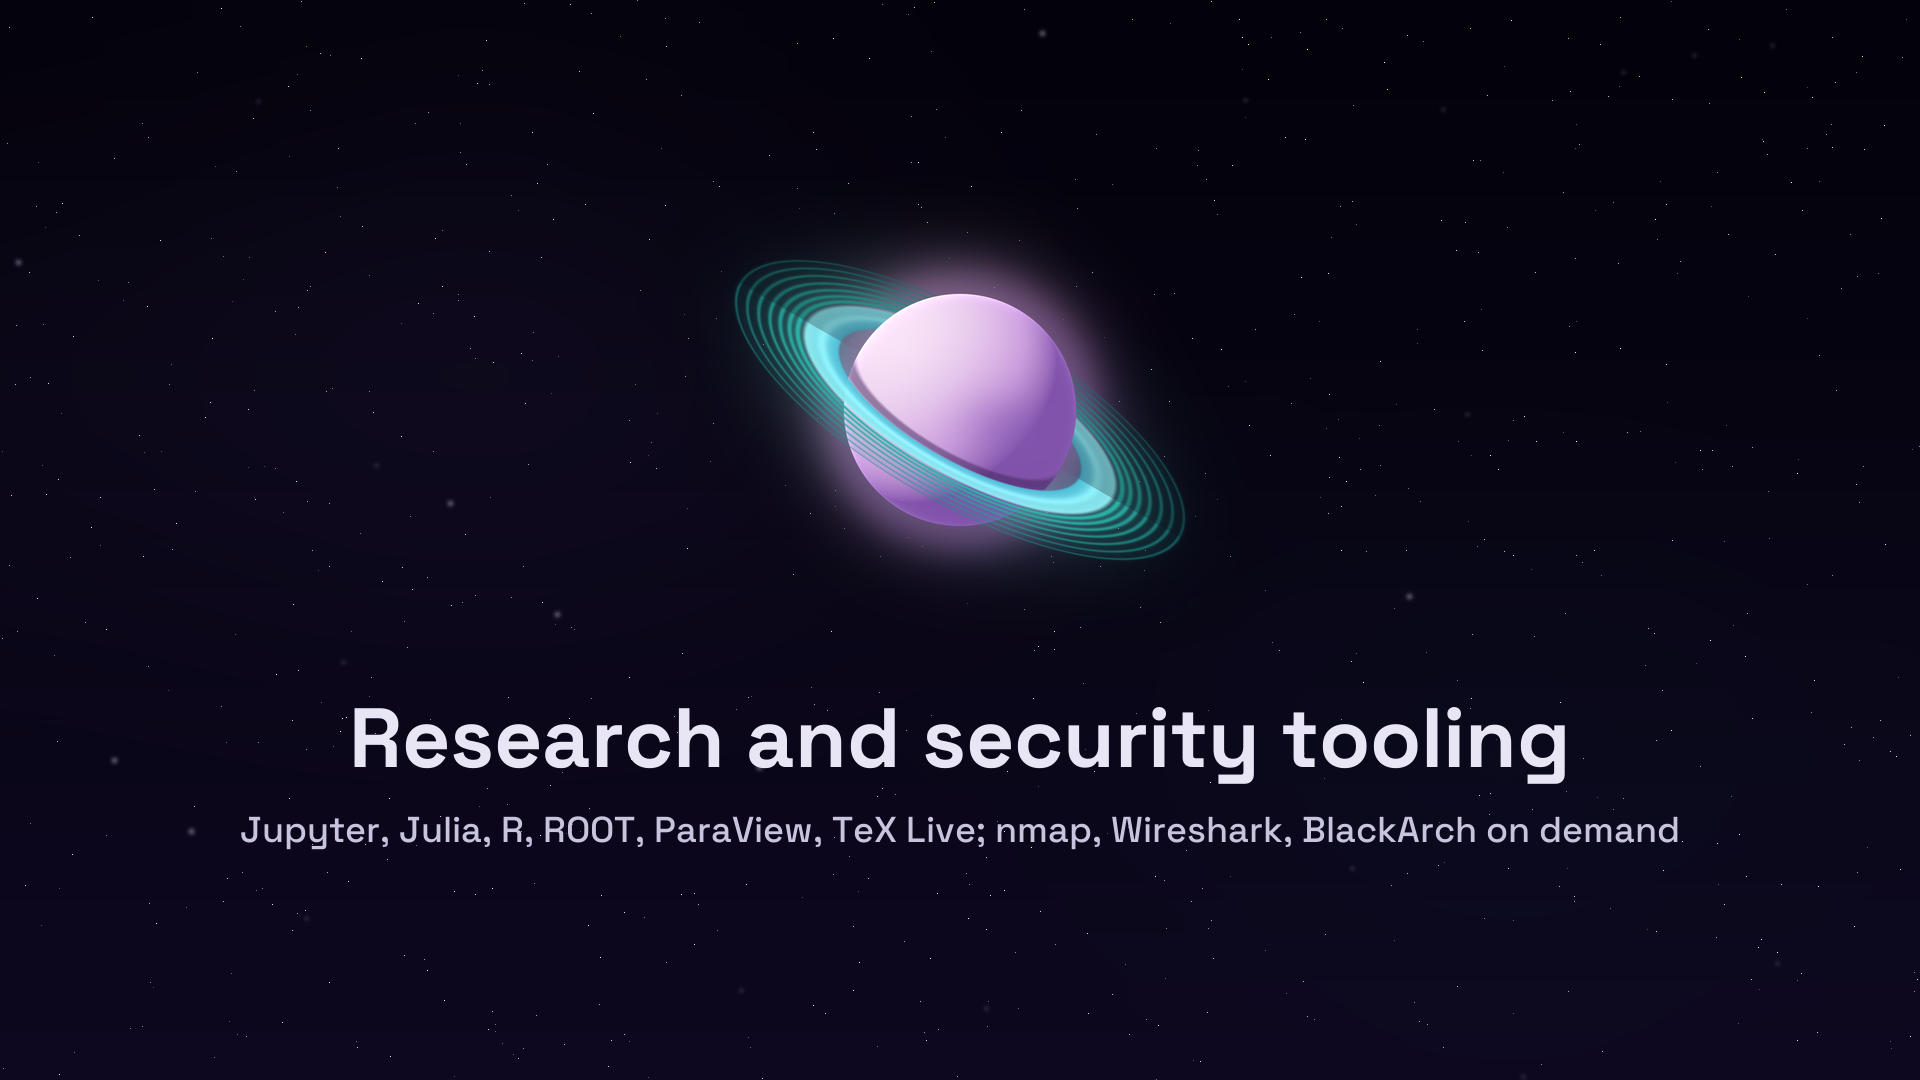
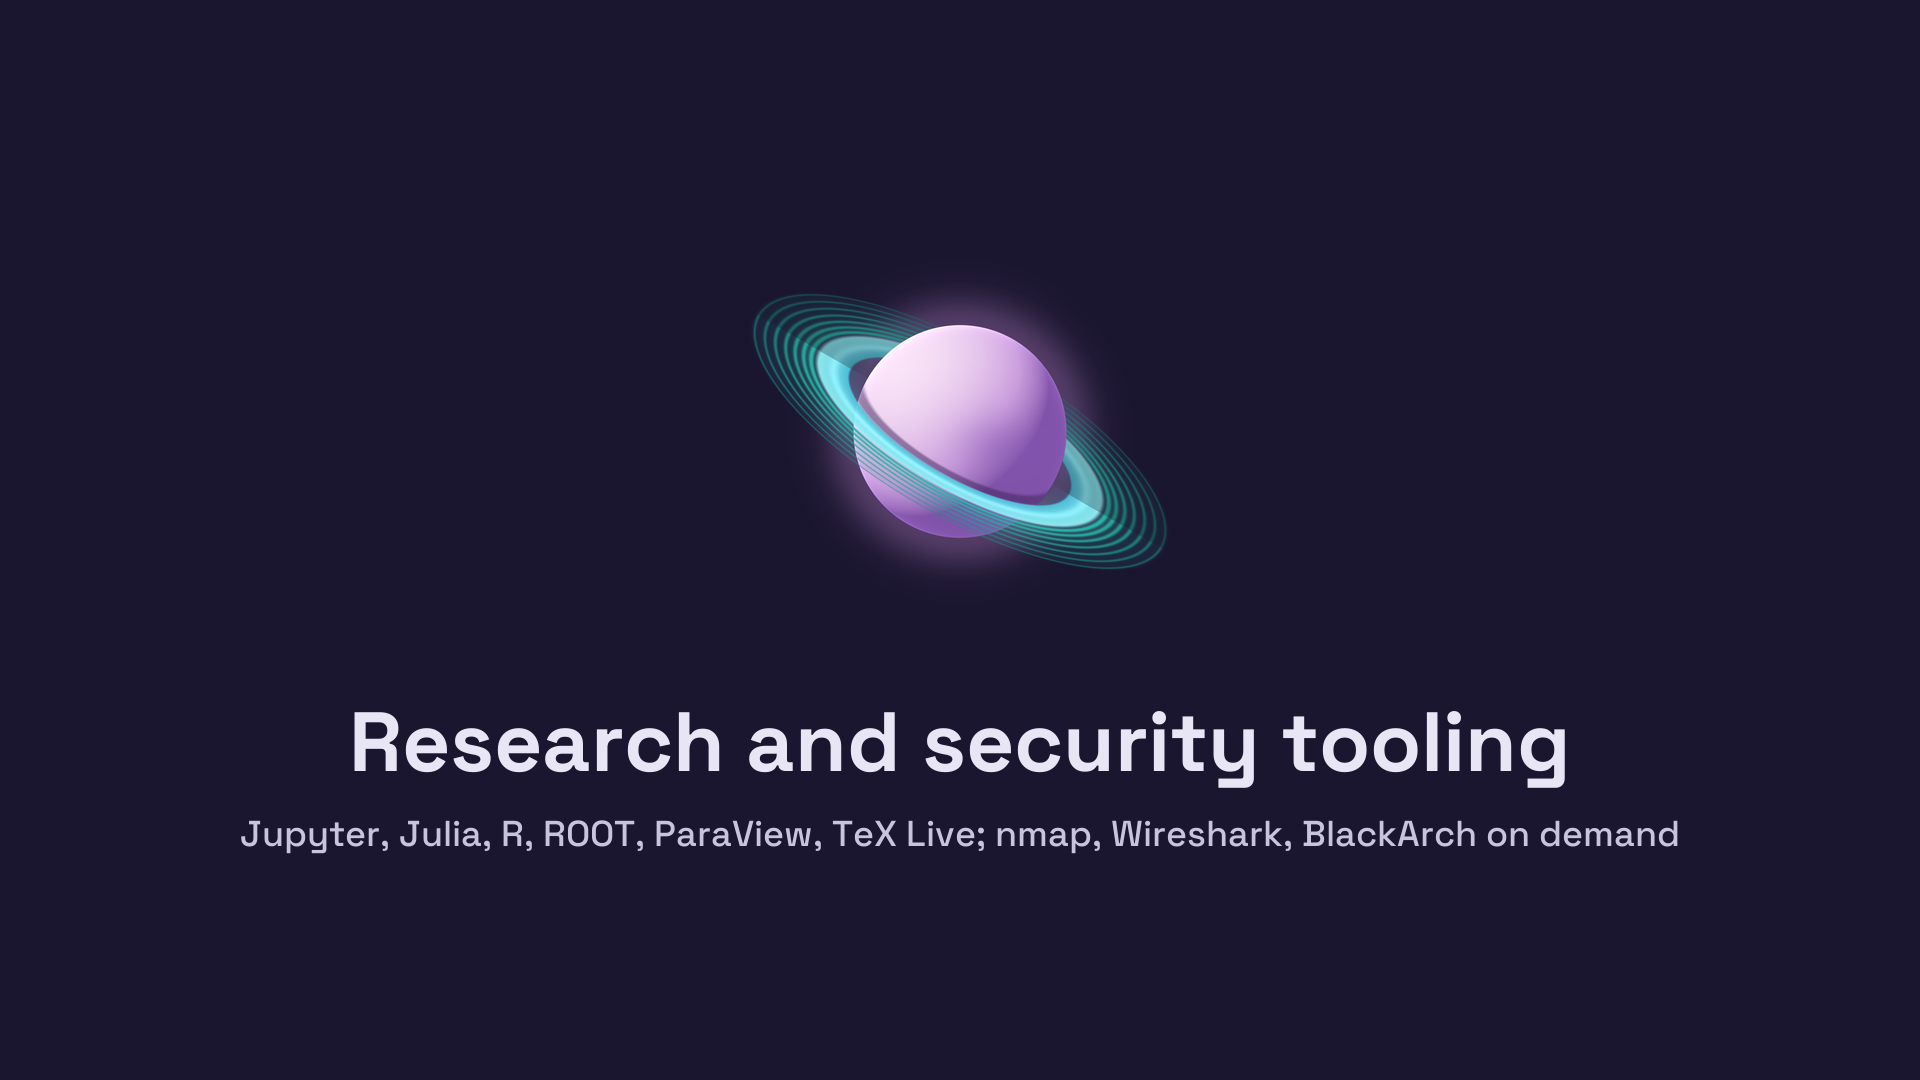
simplify installer images

diff --git a/astroos/branding/assetgen.py b/astroos/branding/assetgen.py
@@ -38,6 +38,11 @@ STAR_SEED = 20260825  # reproducible starfield
 # palette (shared with logo.py's planet)
 SPACE_TOP = (3, 2, 10)
 SPACE_BOTTOM = (14, 8, 32)
+SPACE_WINDOW = (
+    27,
+    22,
+    48,
+)  # palette "window": the flat surface the installer images sit on
 NEBULA_LAVENDER = (108, 79, 176)
 NEBULA_TEAL = (31, 127, 138)
 TEXT_MAIN = (232, 230, 245)
@@ -324,6 +329,37 @@ SLIDES = (
 )
 
 
+def plain_scene(
+    logo, w, h, logo_frac, logo_cy, title=None, subtitle=None, title_px=0, sub_px=0
+):
+    """A flat brand surface (the window colour), the planet as drawn, and at
+    most two lines of text. The installer's images since 2026-09-06: the
+    starfield, nebula and glow version of the welcome page read as overdone
+    next to the plain pages around it (owner's note), and CachyOS's own
+    installer, the shape this one follows, shows a logo on a flat surface."""
+    im = Image.new("RGBA", (w, h), SPACE_WINDOW + (255,))
+    lw = int(w * logo_frac)
+    lh = int(logo.height * lw / logo.width)
+    im.alpha_composite(
+        logo.resize((lw, lh), Image.LANCZOS),
+        (int(w / 2 - lw / 2), int(h * logo_cy - lh / 2)),
+    )
+    if title or subtitle:
+        d = ImageDraw.Draw(im)
+        y = h * logo_cy + lh / 2 + h * 0.06
+        if title:
+            d.text((w / 2, y), title, font=_font(title_px), fill=TEXT_MAIN, anchor="ma")
+        if subtitle:
+            d.text(
+                (w / 2, y + title_px * 1.45),
+                subtitle,
+                font=_font(sub_px, 500),
+                fill=TEXT_SUB,
+                anchor="ma",
+            )
+    return im
+
+
 def calamares(logo, outdir):
     """Installer branding component images (sizes match the upstream component)."""
     d = os.path.join(outdir, "calamares")
@@ -331,19 +367,11 @@ def calamares(logo, outdir):
     sq = square(logo)
     sq.resize((64, 64), Image.LANCZOS).save(os.path.join(d, "logo.png"))
     sq.resize((128, 128), Image.LANCZOS).save(os.path.join(d, "icon.png"))
-    scene(
-        logo,
-        900,
-        516,
-        0.30,
-        0.40,
-        "AstroOS",
-        "Research workstation. Built on Arch Linux.",
-        56,
-        24,
-    ).save(os.path.join(d, "welcome.png"))
+    # the welcome page: the planet on the flat surface, nothing else; the
+    # page's own heading already says whose installer it is
+    plain_scene(logo, 900, 516, 0.30, 0.50).save(os.path.join(d, "welcome.png"))
     for i, (title, sub) in enumerate(SLIDES, start=1):
-        scene(logo, 1920, 1080, 0.24, 0.38, title, sub, 84, 36).save(
+        plain_scene(logo, 1920, 1080, 0.22, 0.40, title, sub, 84, 36).save(
             os.path.join(d, f"slide{i}.png")
         )
 
